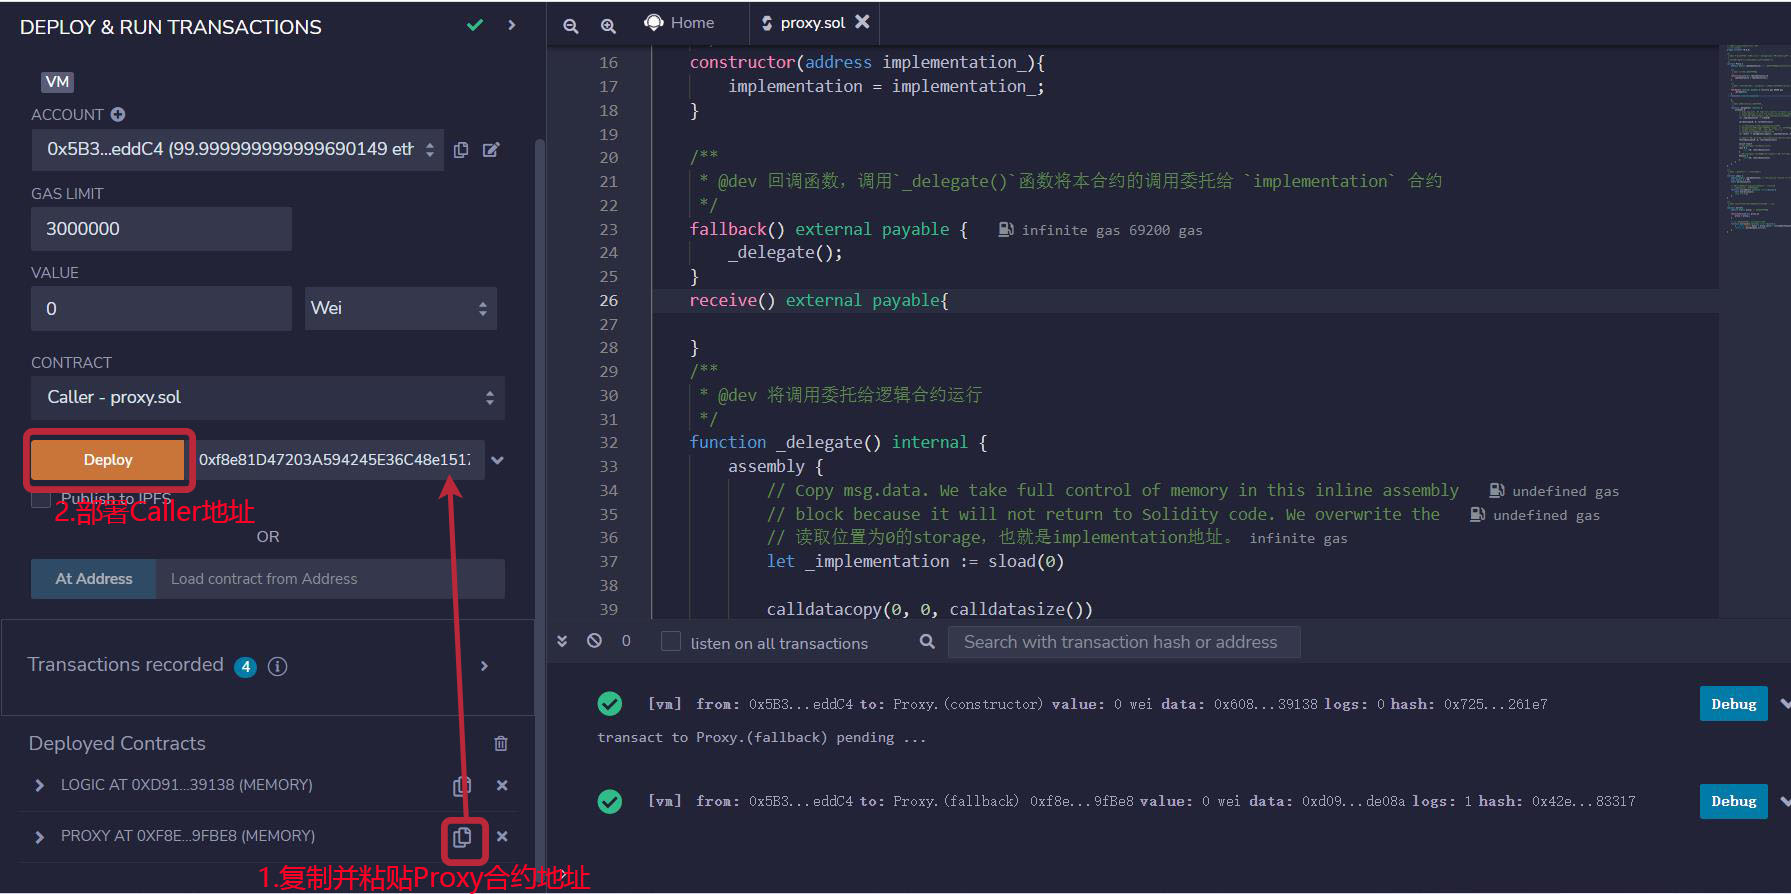
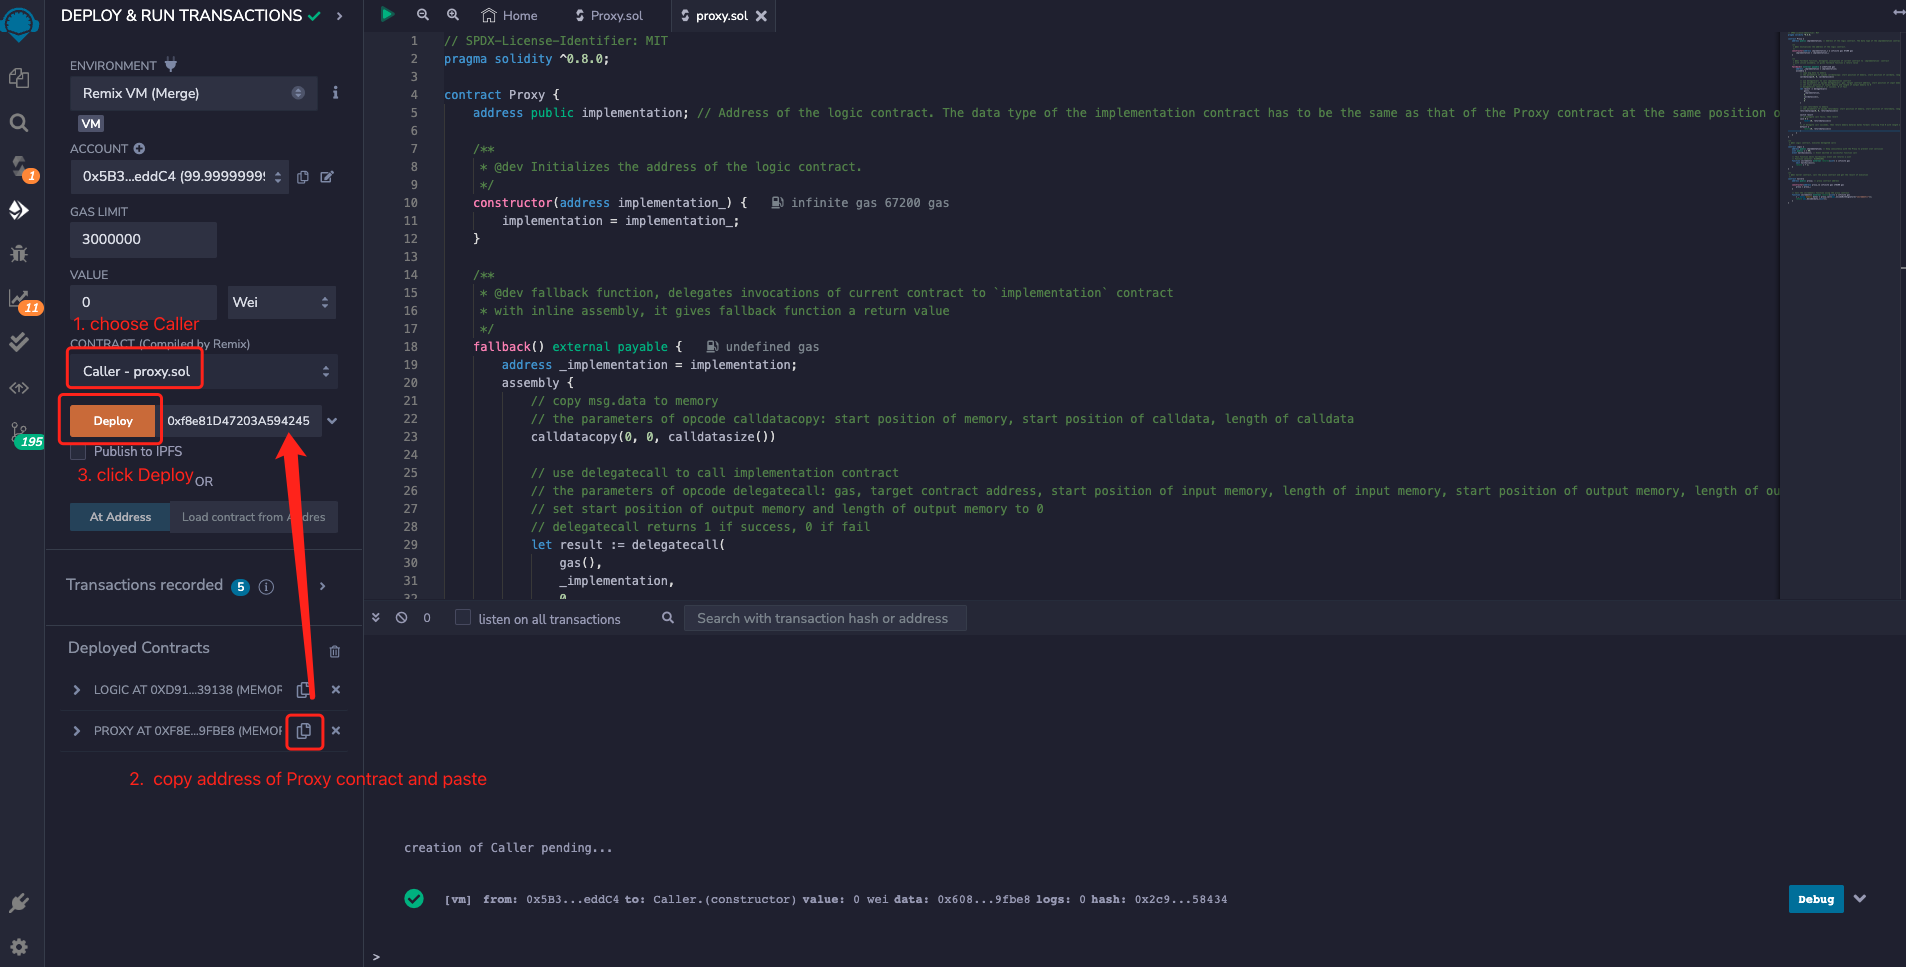
46
46

46

diff --git a/Languages/en/46_ProxyContract_en/readme.md b/Languages/en/46_ProxyContract_en/readme.md
@@ -22,22 +22,22 @@ In this lesson, we introduce the Proxy Contract. The teaching code is simplified
 
 ## Proxy Pattern
 
-After the `Solidity` contract is deployed on the chain, the code is immutable. This has advantages and disadvantages:
+After the `Solidity` contract is deployed on the chain, the code is immutable. There are advantages and disadvantages:
 
 - Advantages: it is secure and users know what will happen (most of the time).
-- Disadvantages: even if there are bugs in the contract, it cannot be modified or upgraded, and only a new contract can be deployed. However, the address of the new contract is different from the old one, and the contract data also requires a lot of gas to migrate.
+- Disadvantages: even if there are bugs in the contract, it cannot be modified or upgraded, and only a new contract can be deployed. However, the address of the new contract is different from the old one, and the contract's data also requires a lot of gas to migrate.
 
 Is there a way to modify or upgrade the contract after it is deployed? The answer is YES, and that is the **Proxy Pattern**.
 
 ![Proxy Pattern](./img/46-1.png)
 
-The proxy pattern separates contract data and logic, and saves them in different contracts. Taking the simple proxy contract in the above figure as an example, the data (state variable) is stored in the proxy contract, and the logic (function) is stored in another logical contract. The proxy contract (Proxy) delegates the function call to the logical contract (Implementation) through `delegatecall`, and then returns the final result to the caller.
+The proxy pattern separates contract data and logic, and saves them in different contracts. Taking the simple proxy contract in the above figure as an example, the data (state variable) is stored in the proxy contract, and the logic (function) is stored in another logic contract. The proxy contract (Proxy) delegates the function call to the logic contract (Implementation) through `delegatecall`, and then returns the final result to the caller(Caller).
 
 The proxy pattern has two main benefits:
-1. Upgradeable: When we need to upgrade the logic of the contract, we only need to point the proxy contract to a new logical contract.
-2. Gas saving: If multiple contracts reuse a set of logic, we only need to deploy one logical contract, and then deploy multiple proxy contracts that only save data and point to the logical contract.
+1. Upgradeable: When we need to upgrade the logic of the contract, we only need to point the proxy contract to a new logic contract.
+2. Gas saving: If multiple contracts reuse a set of logic, we only need to deploy one logic contract, and then deploy multiple proxy contracts that only save data and point to the logic contract.
 
-**Tip**: If you are not familiar with `delegatecall`, you can refer to this tutorial [Lesson 23 Delegatecall](https://github.com/AmazingAng/WTFSolidity/tree/main/23_Delegatecall).
+**Tip**: If you are not familiar with `delegatecall`, you can refer to this tutorial [Lesson 23 Delegatecall](https://github.com/AmazingAng/WTFSolidity/tree/main/Languages/en/23_Delegatecall_en).
 
 ## Proxy Contract
 
@@ -55,7 +55,7 @@ The `Proxy` contract is not long, but it uses inline assembly, so it may be diff
 
 ```solidity
 contract Proxy {
-    address public implementation; // Address of the logic contract. The data type of the implementation contract must be the same as that of the Proxy contract at the same position or an error will occur.
+    address public implementation; // Address of the logic contract. The data type of the implementation contract has to be the same as that of the Proxy contract at the same position or an error will occur.
 
     /**
      * @dev Initializes the address of the logic contract.
@@ -63,45 +63,47 @@ contract Proxy {
     constructor(address implementation_){
         implementation = implementation_;
     }
+}
 ```
 
-The callback function of `Proxy` delegates external calls to the `Logic` contract. This callback function is unique in that it uses inline assembly to give a return value to a function that was previously unable to do so. The inline assembly code utilizes the following operations:
+The fallback function of `Proxy` delegates external calls to the `Logic` contract. This fallback function is unique, it uses inline assembly to give a return value to a function that was previously unable to do so. The inline assembly code utilizes the following operations:
 
 - `calldatacopy(t, f, s)`: copies `s` bytes of calldata (input data) starting at position `f` to memory (`mem`) position `t`.
 - `delegatecall(g, a, in, insize, out, outsize)`: calls the contract at address `a`, using `mem[in..(in+insize))` as input and returning results in `mem[out..(out+outsize))`, providing `g`wei of gas. This operation returns `1` on success and `0` on error.
 - `returndatacopy(t, f, s)`: copies `s` bytes of returndata (output data) starting at position `f` to memory (`mem`) position `t`.
-- `switch`: a basic version of `if/else` that returns different values depending on the case. It can have a default case as well.
+- `switch`: a basic version of `if/else` that returns different values depending on the cases. It can have a default case as well.
 - `return(p,s)`: terminates execution of the function and returns data `mem[p..(p+s))`.
-- `revert(p, s)`: terminates execution of the function, rolling back the state and returning data `mem[p..(p+s))`.
+- `revert(p, s)`: terminates execution of the function, rolls back the state and returns data `mem[p..(p+s))`.
 
 ```solidity
 /**
-* @dev 回调函数，将本合约的调用委托给 `implementation` 合约
-* 通过assembly，让回调函数也能有返回值
+* @dev fallback function, delegates invocations of current contract to `implementation` contract
+* with inline assembly, it gives fallback function a return value
 */
 fallback() external payable {
     address _implementation = implementation;
     assembly {
-        // 将msg.data拷贝到内存里
-        // calldatacopy操作码的参数: 内存起始位置，calldata起始位置，calldata长度
+        // copy msg.data to memory
+        // the parameters of opcode calldatacopy: start position of memory, start position of calldata, length of calldata
         calldatacopy(0, 0, calldatasize())
 
-        // 利用delegatecall调用implementation合约
-        // delegatecall操作码的参数：gas, 目标合约地址，input mem起始位置，input mem长度，output area mem起始位置，output area mem长度
-        // output area起始位置和长度位置，所以设为0
-        // delegatecall成功返回1，失败返回0
+        // use delegatecall to call implementation contract
+        // the parameters of opcode delegatecall: gas, target contract address, start position of input memory, length of input memory, start position of output memory, length of output memory
+        // set start position of output memory and length of output memory to 0
+        // delegatecall returns 1 if success, 0 if fail
         let result := delegatecall(gas(), _implementation, 0, calldatasize(), 0, 0)
-
-        // 将return data拷贝到内存
-        // returndata操作码的参数：内存起始位置，returndata起始位置，returndata长度
+        
+        // copy returndata to memory
+        // the parameters of opcode returndata: start position of memory, start position of returndata, length of retundata
         returndatacopy(0, 0, returndatasize())
 
         switch result
-        // 如果delegate call失败，revert
+        // if delegate call fails, then revert
         case 0 {
             revert(0, returndatasize())
         }
-        // 如果delegate call成功，返回mem起始位置为0，长度为returndatasize()的数据（格式为bytes）
+
+        // if delegate call succeeds, then return memory data(as bytes format) starting from 0 with length of returndatasize()
         default {
             return(0, returndatasize())
         }
@@ -123,7 +125,7 @@ This is a very simple logic contract designed to demonstrate a proxy contract. I
  * @dev Logic contract, executes delegated calls
  */
 contract Logic {
-    address public implementation; // To prevent slot collision with Proxy
+    address public implementation; // Keep consistency with the Proxy to prevent slot collision
     uint public x = 99;
     event CallSuccess(); // Event emitted on successful function call
 
@@ -138,13 +140,14 @@ contract Logic {
 
 ### Caller contract
 
-The `Caller` contract demonstrates how to call a proxy contract and is very simple. However, to understand it, you need to first learn about [Lesson 22: Call](https://github.com/AmazingAng/WTFSolidity/tree/main/22_Call/readme.md) and [Lesson 27: ABI encoding](https://github.com/AmazingAng/WTFSolidity/tree/main/27_ABIEncode/readme.md) in this tutorial.
+The `Caller` contract demonstrates how to call a proxy contract, it's very simple. However, to understand it, you need to first learn about [Lesson 22: Call](https://github.com/AmazingAng/WTFSolidity/tree/main/Languages/en/22_Call_en/readme.md) and [Lesson 27: ABI encoding](https://github.com/AmazingAng/WTFSolidity/tree/main/Languages/en/27_ABIEncode_en/readme.md) in this tutorial.
 
-It has 1 variable and 2 functions:
+There are 1 variable and 2 functions:
 - `proxy`: a state variable that records the proxy contract address.
 - Constructor: initializes the `proxy` variable when the contract is deployed.
 - `increase()`: calls the proxy contract's `increment()` function using `call` and returns a `uint`. When calling, we use `abi.encodeWithSignature()` to obtain the `selector` of the `increment()` function. When returning, `abi.decode()` is used to decode the return value as a `uint` type.
 
+```solidity
 /**
  * @dev Caller contract, call the proxy contract and get the result of execution
  */
@@ -155,12 +158,13 @@ contract Caller{
         proxy = proxy_;
     }
 
-    // Call the increment() function through the proxy contract
+    // Call the increment() function using the proxy contract
     function increment() external returns(uint) {
         ( , bytes memory data) = proxy.call(abi.encodeWithSignature("increment()"));
         return abi.decode(data,(uint));
     }
 }
+```
 
 ## `Remix` Demo
 
@@ -179,13 +183,20 @@ contract Caller{
 4. Call the `increment()` function of the `Proxy` contract, which has no return value.
 
    Call method: click on the `Proxy` contract in the `Remix` deployment panel, fill in the selector of the `increment()` function `0xd09de08a` in the `Low level interaction` at the bottom, and click `Transact`.
+![](./img/46-5.jpg)
 
-Deploy the `Caller` contract and fill in the `Proxy` contract address during initialization. Call the `increment()` function of the `Caller` contract and return `1`. 
+5. Deploy the `Caller` contract and fill in the `Proxy` contract address during initialization. 
+![](./img/46-6.jpg)
 
-In this lesson, we introduced the proxy pattern and simple proxy contracts. The proxy contract uses `delegatecall` to delegate function calls to another logical contract, allowing data and logic to be responsible for different contracts. In addition, it uses inline assembly magic to allow callback functions without return values to return data. 
+6. Call the `increment()` function of the `Caller` contract and return `1`. 
+![](./img/46-7.jpg)
 
-The question we left for everyone earlier was: why does a call to `increment()` through Proxy return 1? According to what we said in [Lesson 23: Delegatecall](https://github.com/AmazingAng/WTF-Solidity/tree/main/23_Delegatecall), when the Caller contract `delegatecall`s the Logic contract through the Proxy contract, if the Logic contract function changes or reads some state variables, it will operate on the corresponding variables of the Proxy, and the value of the `x` variable of the Proxy contract here is 0 (because `x` has never been set, i.e. the value at the corresponding position of the storage area of the Proxy contract is 0), so calling `increment()` through Proxy will return 1.
+### Summary
+
+In this lesson, we introduced the proxy pattern and simple proxy contracts. The proxy contract uses `delegatecall` to delegate function calls to another logic contract, allowing data and logic to be responsible for different contracts. In addition, it uses inline assembly magic to allow fallback functions without return values to return data. 
+
+The question we left for everyone earlier was: why does a call to `increment()` through Proxy return 1? According to what we said in [Lesson 23: Delegatecall](https://github.com/AmazingAng/WTF-Solidity/tree/main/Languages/en/23_Delegatecall_en), when the Caller contract `delegatecall`s the Logic contract through the Proxy contract, if the Logic contract function changes or reads some state variables, it will operate on the corresponding variables of the Proxy, and the value of the `x` variable of the Proxy contract here is 0 (because `x` has never been set, i.e. the value at the corresponding position of the storage area of the Proxy contract is 0), so calling `increment()` through Proxy will return 1.
 
 In the next lesson, we will introduce upgradeable proxy contracts.
 
-Although the proxy contract is very powerful, it is prone to bugs. When using it, it is best to directly copy the template contract from [OpenZeppelin](https://github.com/OpenZeppelin/openzeppelin-contracts/tree/master/contracts/proxy).
+Although the proxy contract is very powerful, it is prone to bugs. When using it, you'd better directly copy the template contract from [OpenZeppelin](https://github.com/OpenZeppelin/openzeppelin-contracts/tree/master/contracts/proxy).
